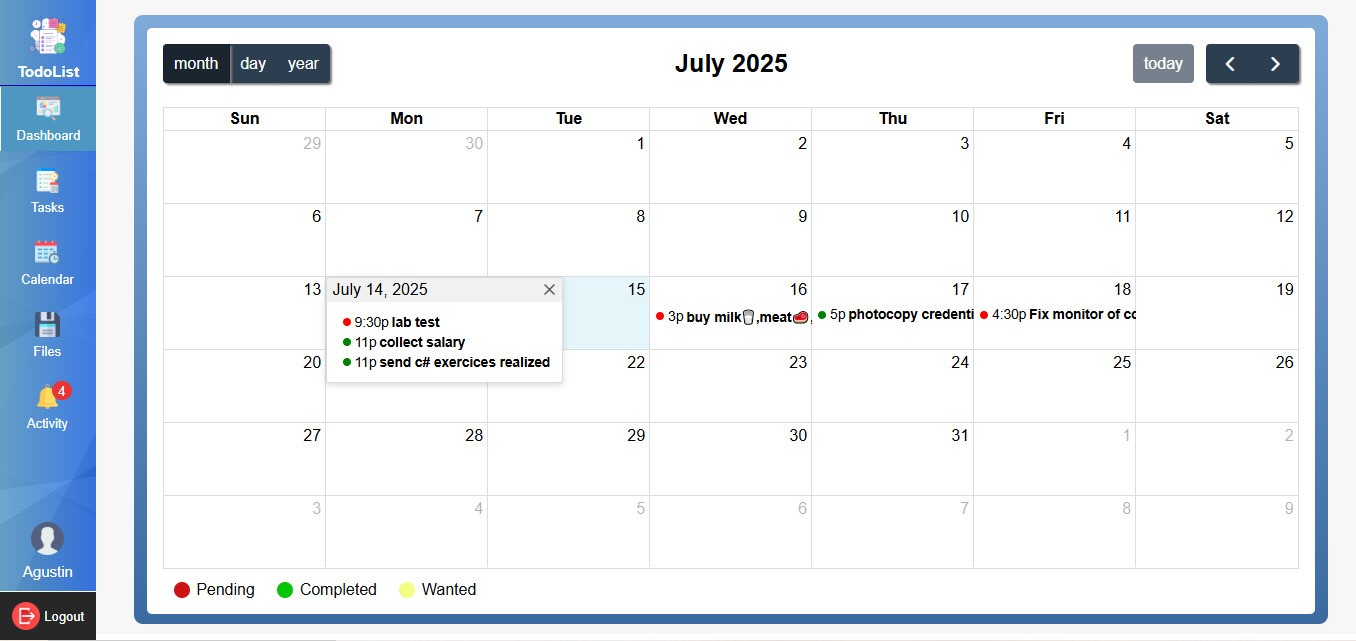
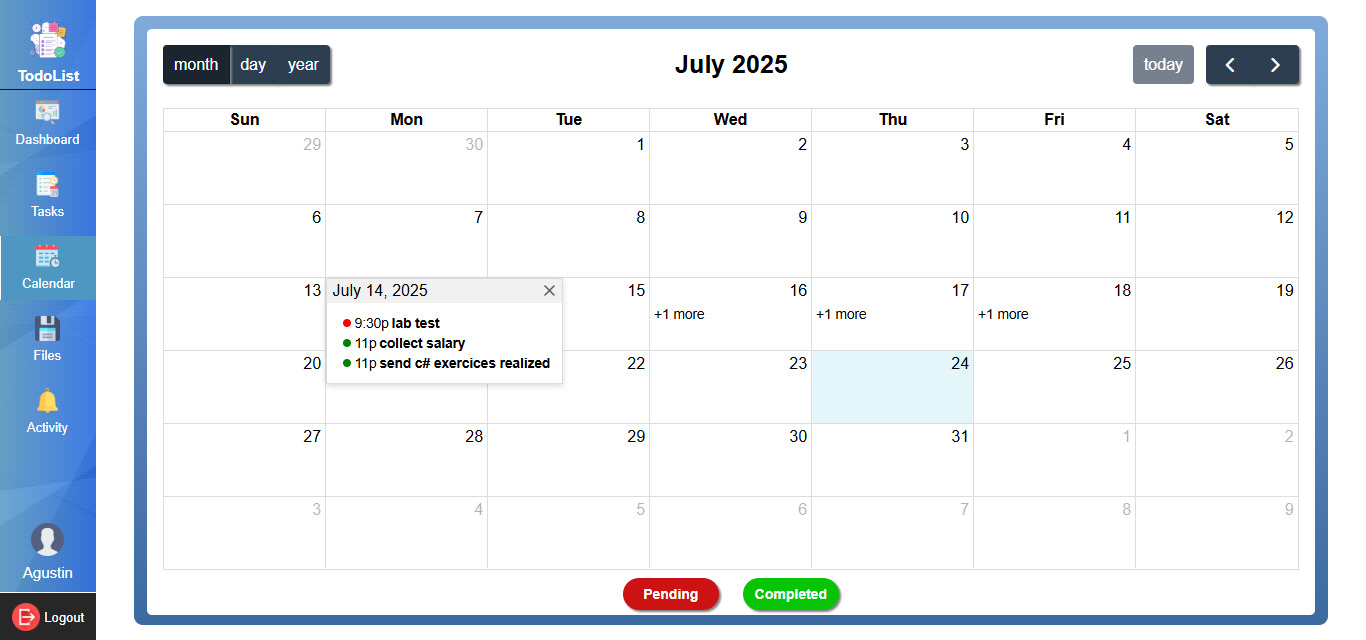
feat:calendar quantity events changed

diff --git a/frontEnd/src/components/calendarEvents/CalendarEvents.jsx b/frontEnd/src/components/calendarEvents/CalendarEvents.jsx
@@ -78,7 +78,8 @@ export const CalendarEvents = () => {
                 initialView="dayGridMonth"
                 events={eventsCalendar}
                 initialDate={initialDate(idTaskParam)}
-                dayMaxEventRows={1}
+                // dayCellDidMount={(info) => dayViewOfTaskFound(info, idTaskParam)}
+                dayMaxEventRows={0}
                 dateClick={handleEventAddEvent}
                 headerToolbar={{
                   start: "dayGridMonth,timeGridDay,multiMonthYear",
@@ -91,7 +92,6 @@ export const CalendarEvents = () => {
             <ul>
               <li className={styles.pending}>Pending</li>
               <li className={styles.completed}>Completed</li>
-              <li className={styles.found}>Wanted</li>
             </ul>
           </div>
         </div>

diff --git a/frontEnd/src/context/CalendarEventsContext.jsx b/frontEnd/src/context/CalendarEventsContext.jsx
@@ -100,8 +100,7 @@ export const CalendarEventsProvider = ({ children }) => {
   };
 
   const dayViewOfTaskFound = (info, idTask) => {
-    let dateTodayString = formatDateViewCell(Date());
-
+   
     if (eventsCalendar.length > 0 && idTask) {
       let eventCalendar = eventsCalendar.find(
         (event) => event.extendedProps.idTask == idTask
